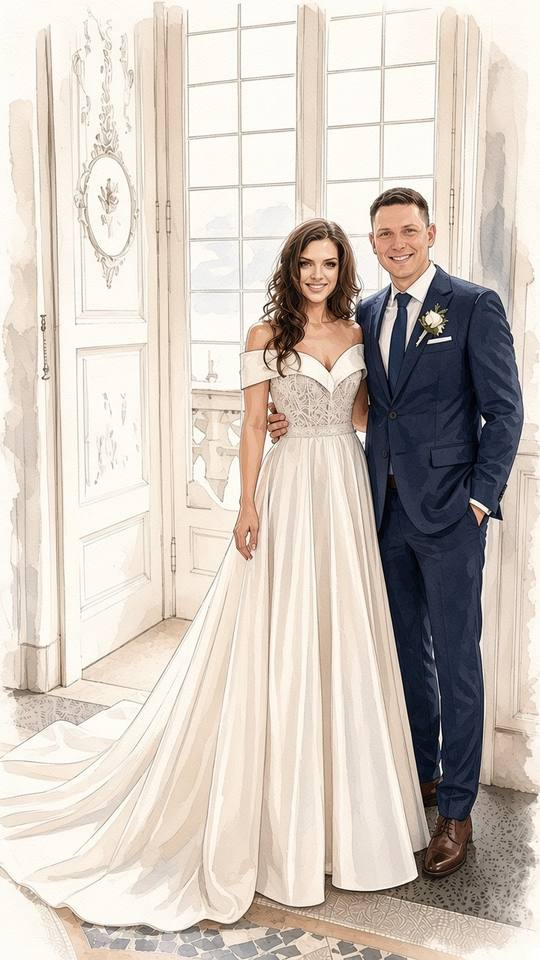
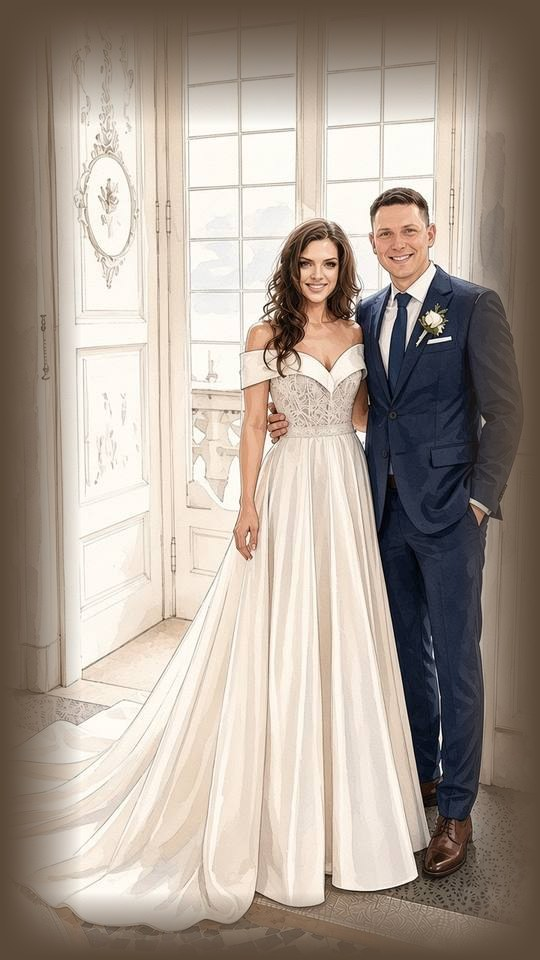
Restore the couple photo as a cover image.
Replace the background treatment with the updated portrait and cover markup.

diff --git a/index.html b/index.html
@@ -654,9 +654,8 @@
       .collage { gap: 14px; }
       .music-btn { right: 28px; bottom: 28px; }
     }
-  .cover{height:auto !important;min-height:100vh;min-height:100dvh;justify-content:flex-start;padding:26px 18px 80px;
-    background:linear-gradient(180deg,#4a3b2f 0%,#5a4838 22%,rgba(90,72,56,.55) 32%,rgba(90,72,56,0) 42%),url("assets/couple.jpg") center bottom/100% auto no-repeat,#5a4838 !important;}
-  @media (min-aspect-ratio:9/16){.cover{background:linear-gradient(180deg,#4a3b2f 0%,#5a4838 22%,rgba(90,72,56,.55) 32%,rgba(90,72,56,0) 42%),url("assets/couple.jpg") center bottom/auto 78% no-repeat,#5a4838 !important;}}
+  .cover{height:auto !important;min-height:100vh;min-height:100dvh;justify-content:flex-start;padding:26px 0 70px;background:#5a4838 !important;}
+  .cover-couple{display:block;width:100%;max-width:520px;height:auto;margin:-6px auto 0;}
   .cover .cover-label{margin-bottom:2px;}
   .cover .cover-title{margin-bottom:8px;}
   .cover .cover-ornament{margin:8px auto;}
@@ -699,6 +698,7 @@
       23 декабря 2026
       <span class="cover-weekday">среда</span>
     </p>
+    <img class="cover-couple" src="assets/couple.jpg" alt="Виктория и Дмитрий" width="540" height="960" />
     <div class="scroll-hint">вниз</div>
   </header>
 
